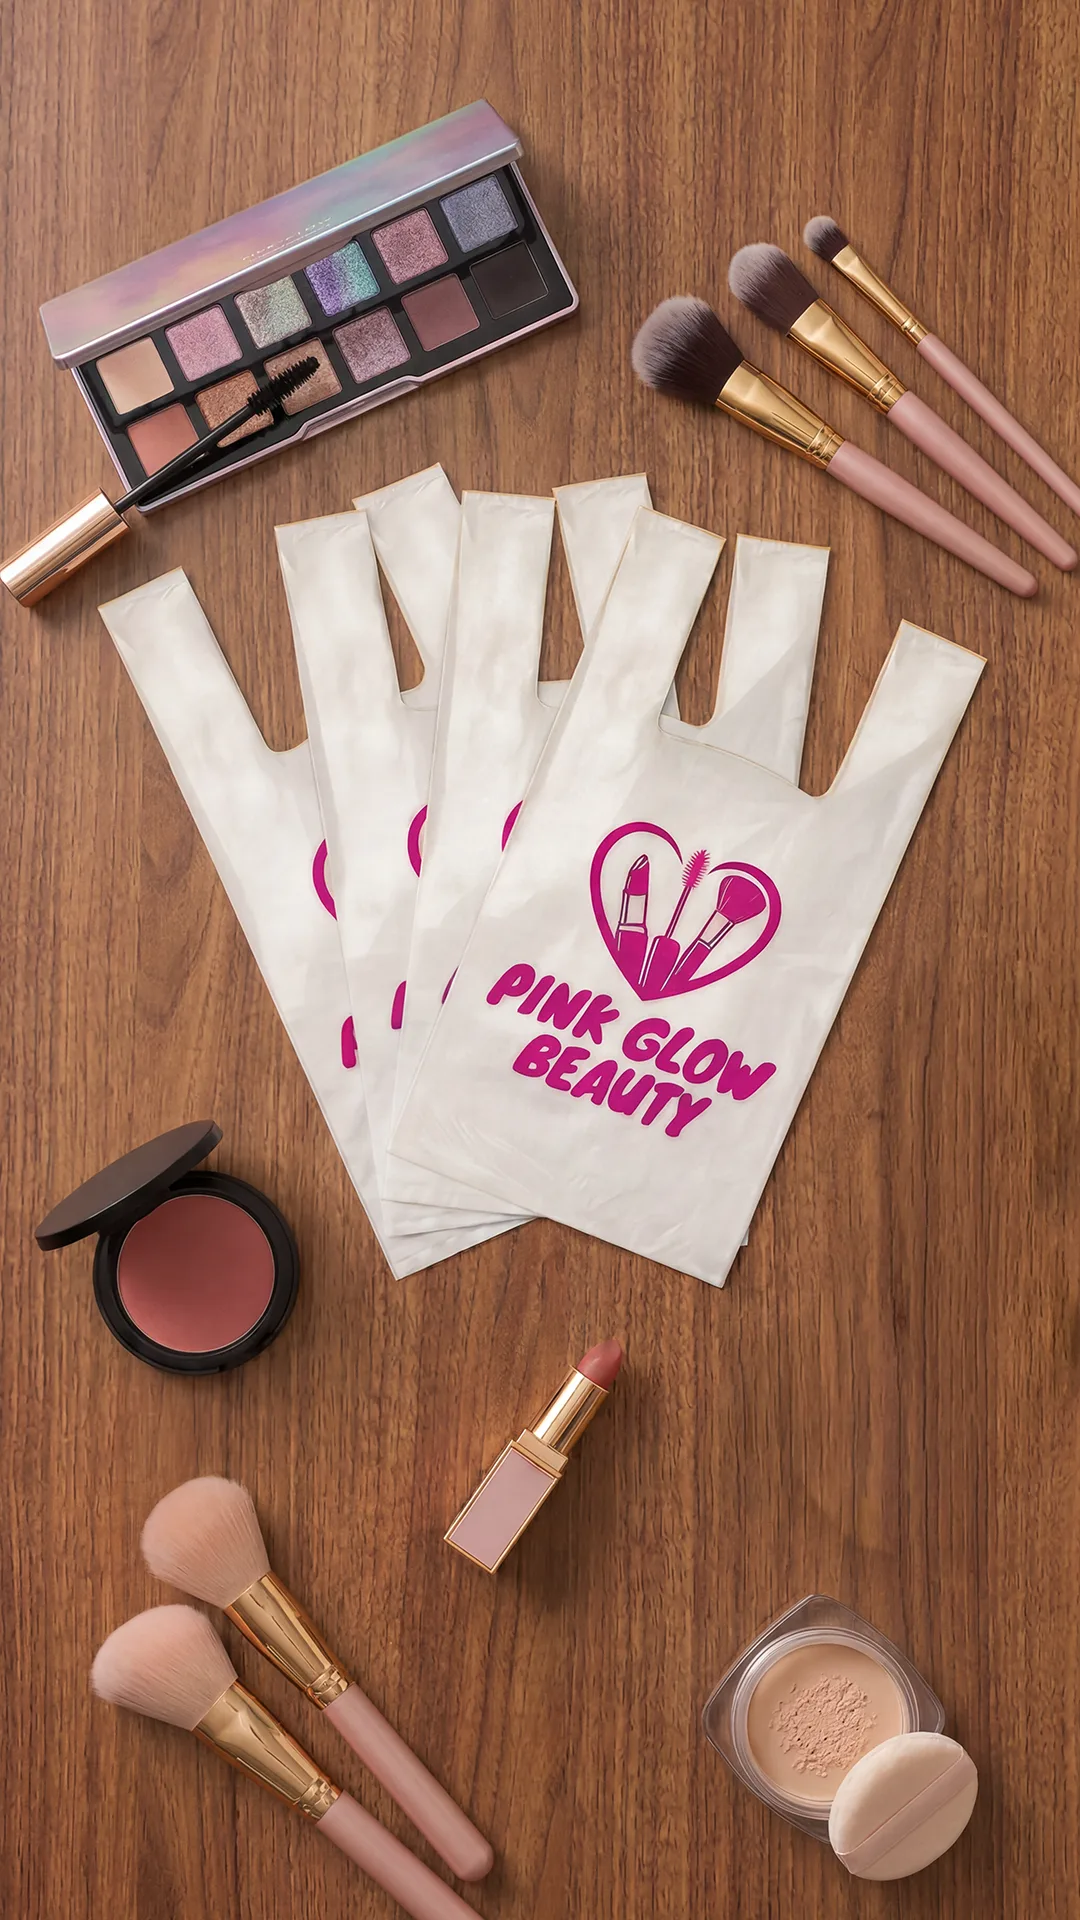
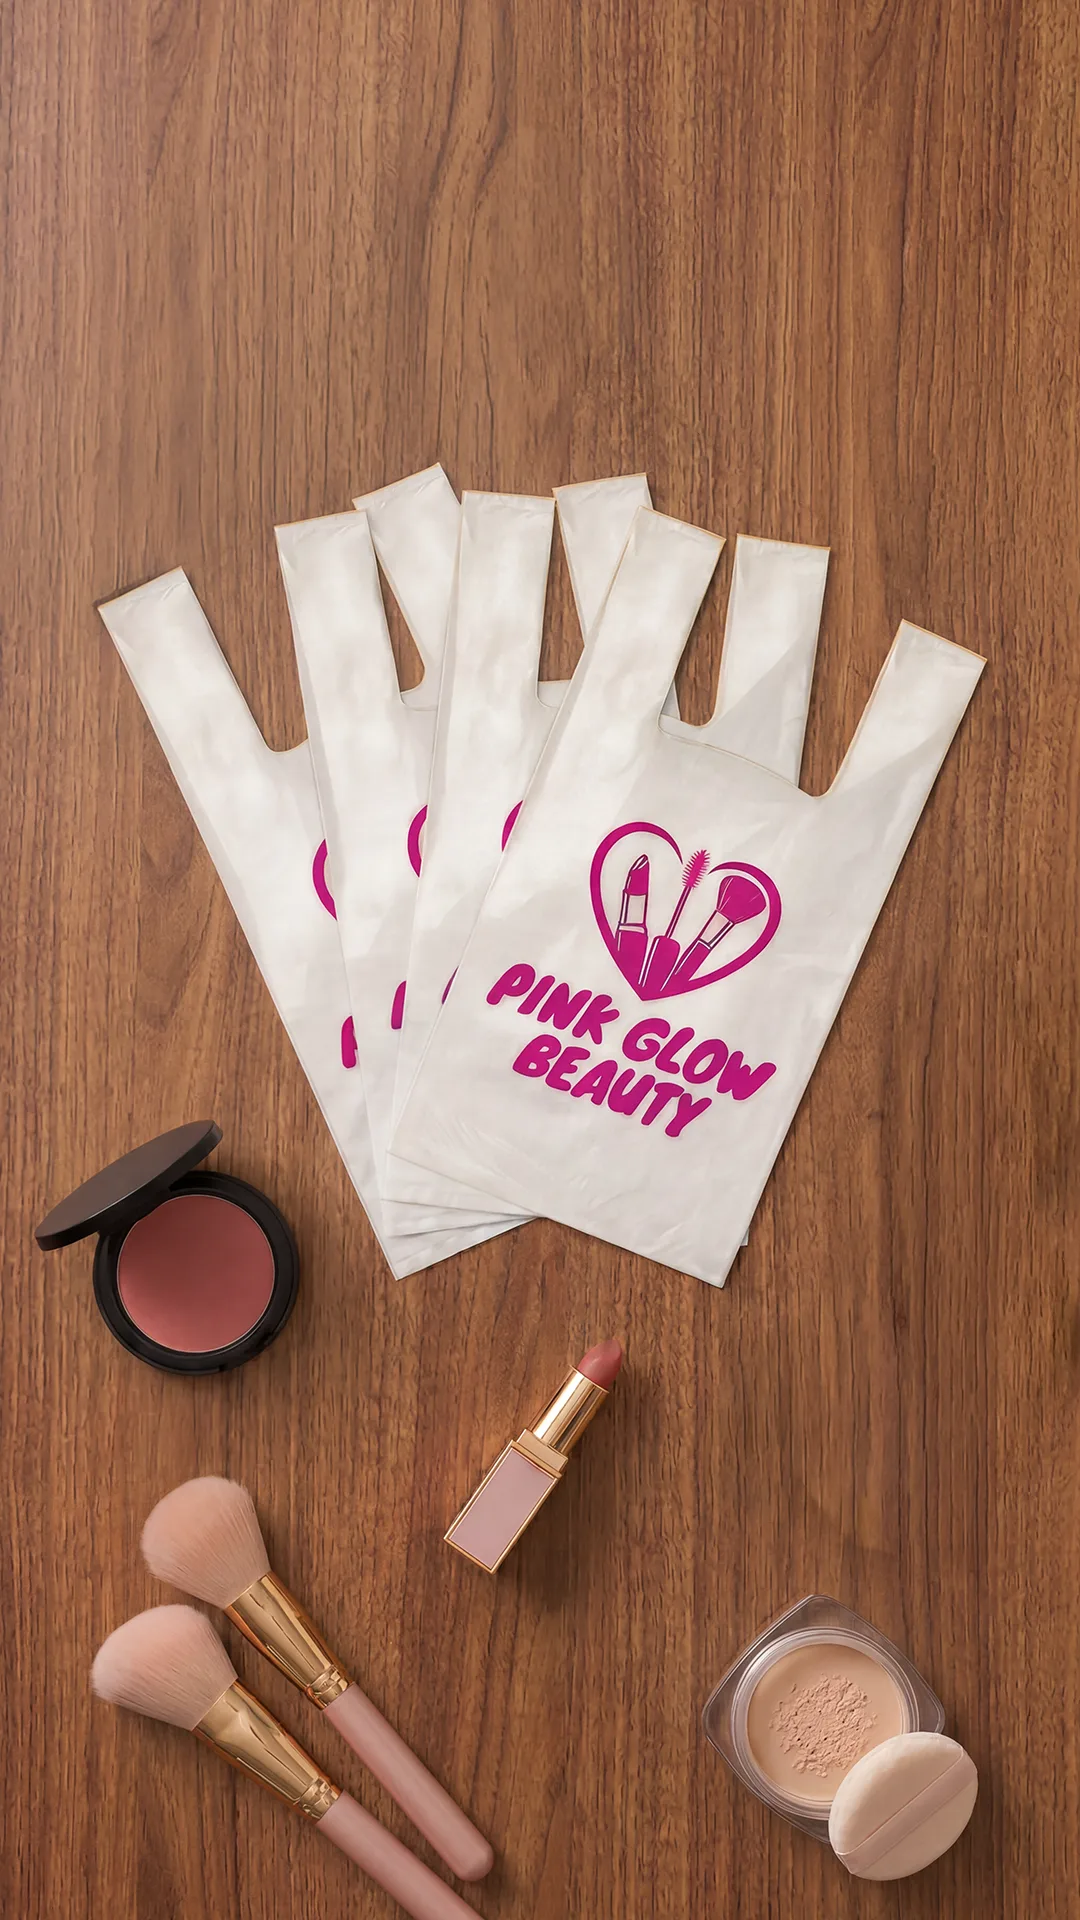
Remove Exemplo de Seda/Cetim/Caixa Simples, adiciona Astra Essence na Caixa E-commerce, atualiza fotos de CTA e Alça Camiseta, gira seta da pág. 12 na vertical

Changed region(s): [[0.0, 0.0312, 1.0, 0.3438], [0.0, 0.2188, 0.0306, 0.25]]

diff --git a/_template.html b/_template.html
@@ -977,7 +977,7 @@
       <div class="img-veil img-veil--light img-veil--top-only"></div>
 
       <div class="tag" style="left:18%; top:79%;">
-        <svg class="tag-arrow tag-arrow--white" style="transform: translate(146px, -25px) scaleX(-1);" viewBox="0 0 40 40" fill="none" aria-hidden="true"><path d="M34 30C24 30 12 24 8 10" stroke="currentColor" stroke-width="2.2" stroke-linecap="round"/><path d="M8 10 L14 12 M8 10 L11 16" stroke="currentColor" stroke-width="2.2" stroke-linecap="round"/></svg>
+        <svg class="tag-arrow tag-arrow--white" style="transform: translate(146px, -25px) rotate(-45deg) scaleX(-1);" viewBox="0 0 40 40" fill="none" aria-hidden="true"><path d="M34 30C24 30 12 24 8 10" stroke="currentColor" stroke-width="2.2" stroke-linecap="round"/><path d="M8 10 L14 12 M8 10 L11 16" stroke="currentColor" stroke-width="2.2" stroke-linecap="round"/></svg>
         <button class="tag-pill" data-product="p12-b" aria-label="Ver __PILL_p12-b__">__PILL_p12-b__</button>
       </div>
       <div class="tag" style="left:61%; top:56%;">